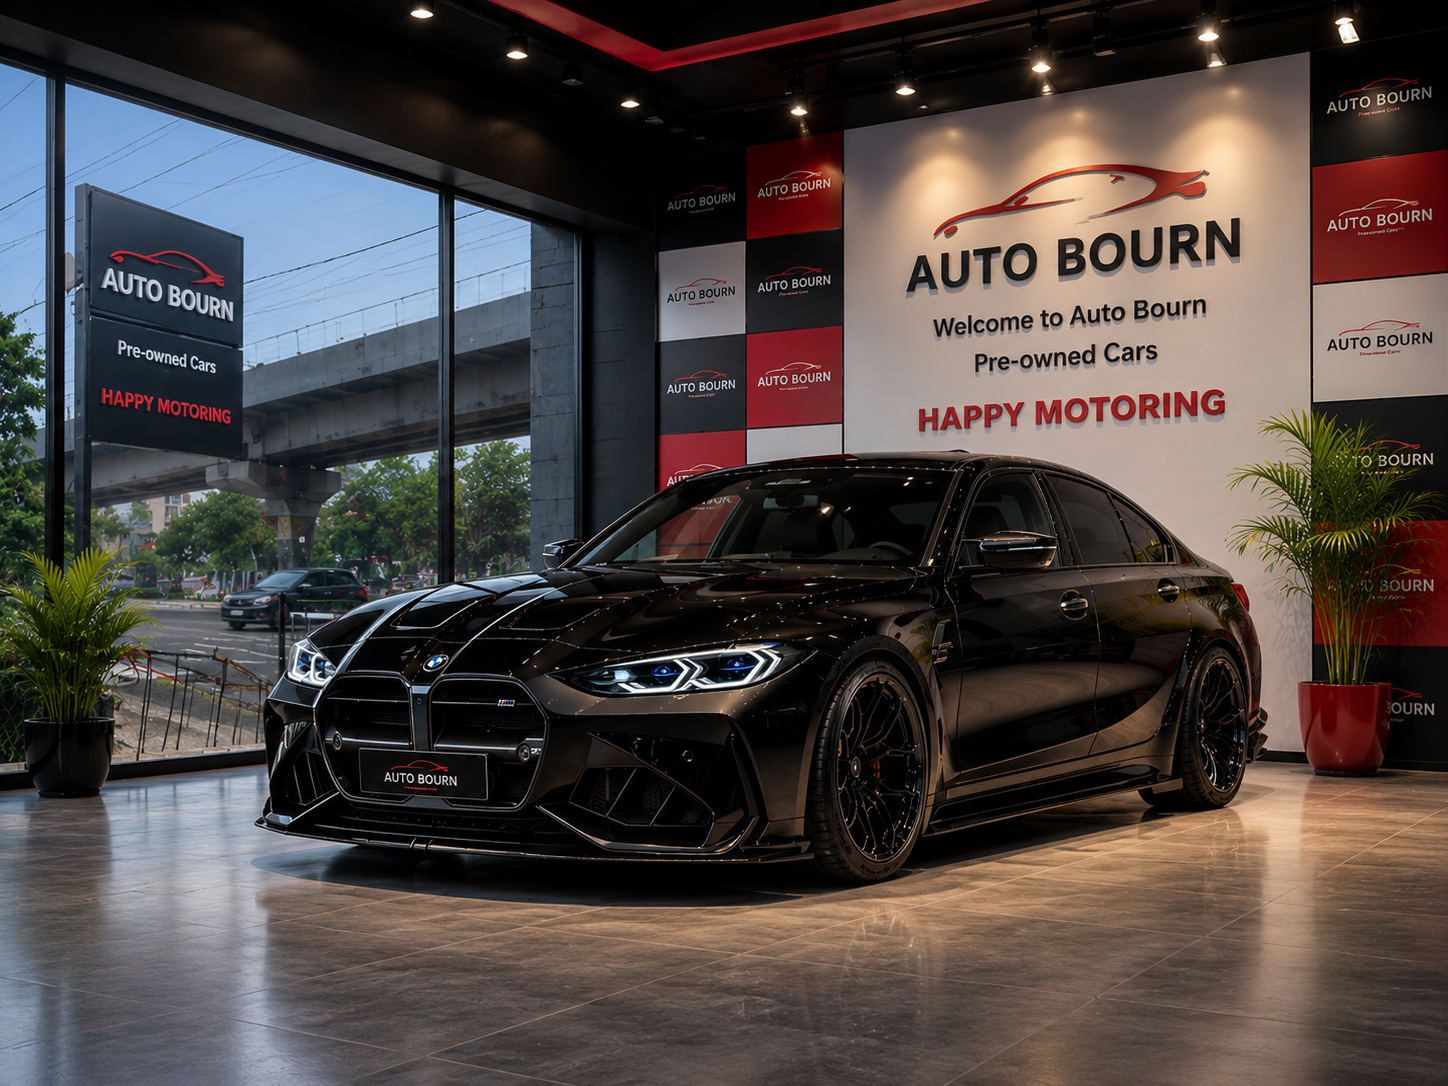
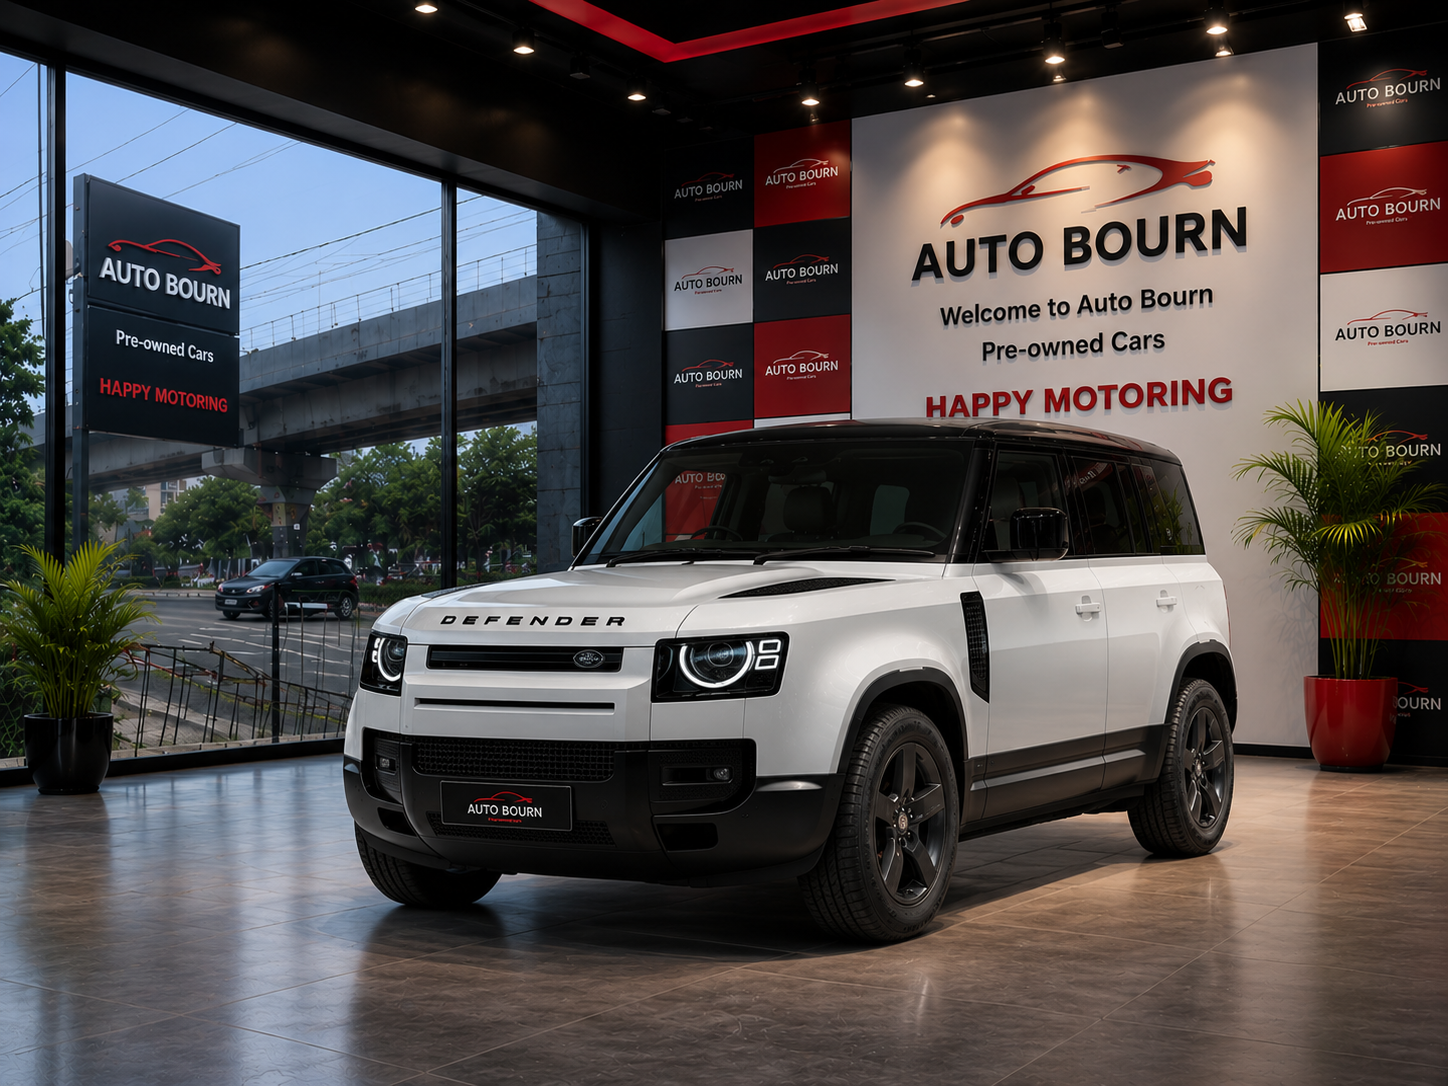
style: move watermark badge to bottom bar center and style with red and white theme

diff --git a/src/components/Footer.tsx b/src/components/Footer.tsx
@@ -176,48 +176,6 @@ export default function Footer() {
                 </li>
               ))}
             </ul>
-            {/* Presented by UNAI TECH */}
-            <a
-              href="https://www.unaitech.com/"
-              target="_blank"
-              rel="noopener noreferrer"
-              style={{
-                display: 'inline-flex',
-                alignItems: 'center',
-                gap: '14px',
-                background: '#1F1E1D',
-                borderRadius: '18px',
-                padding: '12px 24px',
-                textDecoration: 'none',
-                transition: 'all 0.3s cubic-bezier(0.16, 1, 0.3, 1)',
-                border: '1px solid rgba(255, 255, 255, 0.08)',
-                marginTop: '1.75rem',
-                boxShadow: '0 4px 20px rgba(0,0,0,0.1)',
-              }}
-              className="unai-badge"
-            >
-              <div style={{ display: 'flex', flexDirection: 'column', gap: '3px', textAlign: 'left' }}>
-                <span style={{ fontSize: '0.65rem', fontWeight: 600, color: '#9E9185', textTransform: 'uppercase', letterSpacing: '0.15em', lineHeight: 1.2 }}>Presented by</span>
-                <span style={{ fontSize: '1.05rem', fontWeight: 800, letterSpacing: '0.04em', fontFamily: 'var(--font-primary)', lineHeight: 1.1 }}>
-                  <span style={{ color: '#E5B549' }}>UNAI</span> <span style={{ color: '#FFFFFF' }}>TECH</span>
-                </span>
-              </div>
-              <div style={{
-                width: '30px',
-                height: '30px',
-                borderRadius: '50%',
-                background: 'rgba(229, 181, 73, 0.15)',
-                display: 'flex',
-                alignItems: 'center',
-                justifyContent: 'center',
-                flexShrink: 0,
-                transition: 'all 0.3s ease'
-              }} className="unai-arrow-circle">
-                <svg width="11" height="11" viewBox="0 0 10 10" fill="none">
-                  <path d="M2 8L8 2M8 2H3M8 2V7" stroke="#E5B549" strokeWidth="1.8" strokeLinecap="round" strokeLinejoin="round"/>
-                </svg>
-              </div>
-            </a>
           </div>
         </div>
       </div>
@@ -233,13 +191,56 @@ export default function Footer() {
           justifyContent: 'space-between',
           alignItems: 'center',
           flexWrap: 'wrap',
-          gap: '1rem',
+          gap: '1.5rem',
         }}
       >
-        <p style={{ fontSize: '0.8125rem', color: '#B0B0B0' }}>
+        <p style={{ fontSize: '0.8125rem', color: '#B0B0B0', margin: 0 }}>
           © {new Date().getFullYear()} Auto Bourn. All rights reserved.
         </p>
-        <div style={{ display: 'flex', alignItems: 'center', gap: '1.5rem', flexWrap: 'wrap' }}>
+
+        {/* Presented by UNAI TECH (White & Red Theme) */}
+        <a
+          href="https://www.unaitech.com/"
+          target="_blank"
+          rel="noopener noreferrer"
+          style={{
+            display: 'inline-flex',
+            alignItems: 'center',
+            gap: '14px',
+            background: '#FFFFFF',
+            borderRadius: '18px',
+            padding: '10px 22px',
+            textDecoration: 'none',
+            transition: 'all 0.3s cubic-bezier(0.16, 1, 0.3, 1)',
+            border: '1px solid #E5E5E5',
+            boxShadow: '0 2px 10px rgba(0,0,0,0.02)',
+          }}
+          className="unai-badge"
+        >
+          <div style={{ display: 'flex', flexDirection: 'column', gap: '3px', textAlign: 'left' }}>
+            <span style={{ fontSize: '0.6rem', fontWeight: 700, color: '#8A8A8A', textTransform: 'uppercase', letterSpacing: '0.15em', lineHeight: 1.2 }}>Presented by</span>
+            <span style={{ fontSize: '1.05rem', fontWeight: 800, letterSpacing: '0.04em', fontFamily: 'var(--font-primary)', lineHeight: 1.1 }}>
+              <span style={{ color: '#E10613' }}>UNAI</span> <span style={{ color: '#2A2A2A' }}>TECH</span>
+            </span>
+          </div>
+          <div style={{
+            width: '30px',
+            height: '30px',
+            borderRadius: '50%',
+            background: '#E10613',
+            display: 'flex',
+            alignItems: 'center',
+            justifyContent: 'center',
+            flexShrink: 0,
+            transition: 'all 0.3s ease'
+          }} className="unai-arrow-circle">
+            <svg width="11" height="11" viewBox="0 0 10 10" fill="none">
+              <path d="M2 8L8 2M8 2H3M8 2V7" stroke="#FFFFFF" strokeWidth="1.8" strokeLinecap="round" strokeLinejoin="round"/>
+            </svg>
+          </div>
+        </a>
+
+        <div style={{ display: 'flex', alignItems: 'center', gap: '1.5rem', flexWrap: 'wrap', margin: 0 }}>
           <Link href="/privacy" className="footer-link" style={{ textDecoration: 'none', color: '#B0B0B0', fontSize: '0.8125rem', transition: 'color 0.3s ease' }}>Privacy Policy</Link>
           <Link href="/terms" className="footer-link" style={{ textDecoration: 'none', color: '#B0B0B0', fontSize: '0.8125rem', transition: 'color 0.3s ease' }}>Terms &amp; Conditions</Link>
         </div>
@@ -255,13 +256,13 @@ export default function Footer() {
           transform: translateY(-2px);
         }
         .unai-badge:hover {
-          background: #151413 !important;
+          background: #FFFFFF !important;
           transform: translateY(-2px);
-          border-color: rgba(229, 181, 73, 0.4) !important;
-          box-shadow: 0 8px 30px rgba(0,0,0,0.2) !important;
+          border-color: #E10613 !important;
+          box-shadow: 0 6px 20px rgba(225, 6, 19, 0.08) !important;
         }
         .unai-badge:hover .unai-arrow-circle {
-          background: rgba(229, 181, 73, 0.3) !important;
+          background: #c70511 !important;
           transform: scale(1.05);
         }
       `}</style>